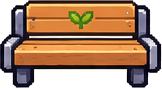
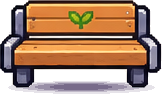
Garden Bay: contact shadows under the decorations
The bench, greenhouse, vine planter, watering sign and vine arch are
re-imported with the drawn shadow the Social Space pots and planters use,
matching the furniture pack. Their game sizes grow to fit it.

diff --git a/web-app/apps/web/src/app/garden/game/asset-registry.ts b/web-app/apps/web/src/app/garden/game/asset-registry.ts
@@ -265,11 +265,11 @@ const PROP_VISUALS: Record<string, PropVisual> = {
   VINES_LEFT: { folder: 'social/decorations', size: [69, 79], palette: SOCIAL },
   VINES_RIGHT: { folder: 'social/decorations', size: [70, 76], palette: SOCIAL },
   // Garden furniture
-  WATERING_CAN: { folder: 'garden/decorations', size: [62, 66], palette: GARDEN },
-  GREENHOUSE: { folder: 'garden/decorations', size: [94, 57], palette: GARDEN },
-  GARDEN_BENCH: { folder: 'garden/decorations', size: [81, 44], palette: GARDEN },
-  VINE_ARCH: { folder: 'garden/decorations', size: [69, 62], palette: GARDEN },
-  VINE_PLANTER: { folder: 'garden/decorations', size: [64, 48], palette: GARDEN },
+  WATERING_CAN: { folder: 'garden/decorations', size: [62, 70], palette: GARDEN },
+  GREENHOUSE: { folder: 'garden/decorations', size: [94, 61], palette: GARDEN },
+  GARDEN_BENCH: { folder: 'garden/decorations', size: [81, 47], palette: GARDEN },
+  VINE_ARCH: { folder: 'garden/decorations', size: [69, 66], palette: GARDEN },
+  VINE_PLANTER: { folder: 'garden/decorations', size: [64, 52], palette: GARDEN },
 };
 
 /** State → texture mapping. Unknown or undelivered states fall back to `idle`. */

diff --git a/web-app/tools/import_props.py b/web-app/tools/import_props.py
@@ -26,11 +26,11 @@ from art import ASSETS, add_shadow, clear_background, drop_glow, drop_strays, ga
 # delivered file name → (HabitatProp.kind, asset folder, scale, cleanup steps). Packs drawn at
 # 64 px per tile import at half; concept-art packs are scaled to the astronaut (36x50).
 PROPS: dict[str, tuple[str, str, float, set[str]]] = {
-    'r07_02_sign_watering.png': ('WATERING_CAN', 'garden/decorations', 0.5, set()),
-    'r08_06_greenhouse.png': ('GREENHOUSE', 'garden/decorations', 0.5, set()),
-    'r08_09_bench.png': ('GARDEN_BENCH', 'garden/decorations', 0.5, set()),
-    'r08_08_vine_arch.png': ('VINE_ARCH', 'garden/decorations', 0.5, set()),
-    'r08_04_planter_vines.png': ('VINE_PLANTER', 'garden/decorations', 0.5, set()),
+    'r07_02_sign_watering.png': ('WATERING_CAN', 'garden/decorations', 0.5, {'shadow'}),
+    'r08_06_greenhouse.png': ('GREENHOUSE', 'garden/decorations', 0.5, {'shadow'}),
+    'r08_09_bench.png': ('GARDEN_BENCH', 'garden/decorations', 0.5, {'shadow'}),
+    'r08_08_vine_arch.png': ('VINE_ARCH', 'garden/decorations', 0.5, {'shadow'}),
+    'r08_04_planter_vines.png': ('VINE_PLANTER', 'garden/decorations', 0.5, {'shadow'}),
     # Social Space 2x pack
     'floor_lamp_64x192.png': ('FLOOR_LAMP', 'social/decorations', 0.5, set()),
     'vines_top_left_192x192.png': ('VINES_LEFT', 'social/decorations', 0.5, set()),
